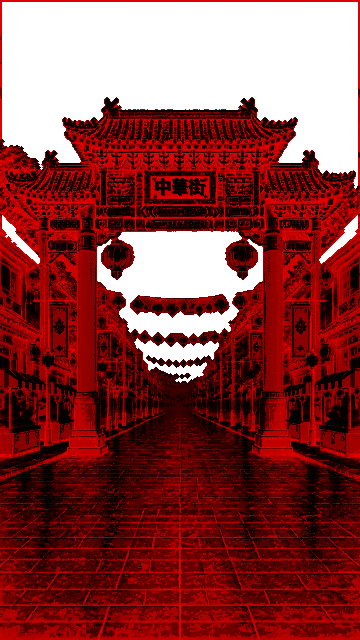
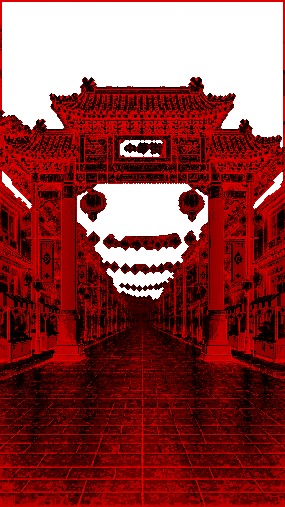
みなとみらい・中華街のカードを「ドットを見つけて縮める＋キャラのふち」で作り直し（v0.4.0）
Canva の元の絵から Pixel Refiner でドットの並び（1マス≒5.4px）を見つけ、285×507マスに縮めた。
描画の共通部分を、名所ごとの絵の大きさに合わせられるようにした。

Changed region(s): [[0.0, 0.0, 1.0, 1.0]]

diff --git a/app/js/card.js b/app/js/card.js
@@ -1,7 +1,8 @@
 // カード描画の共通部分（canva_layers / chukagai_canva の page.html から移したもの）
 // 絵は Canva の見本を写し取った層だけを使う。ここでは背景を描き足さない。
 const THREE = window.THREE;
-export const W = 360, H = 640;
+export const W = 360, H = 640;   // 写真の名所の大きさ。ドット絵の名所は data.json の W・H（scene.userData に入れる）
+const dims = scene => [scene.userData.W || W, scene.userData.H || H];
 export const reduceMotion = () => matchMedia('(prefers-reduced-motion: reduce)').matches;
 
 export const near = t => { t.magFilter = t.minFilter = THREE.NearestFilter; t.generateMipmaps = false; t.wrapS = t.wrapT = THREE.ClampToEdgeWrapping; return t; };
@@ -31,11 +32,13 @@ float bayer(vec2 p){vec2 q=mod(p,4.);float x=q.x,y=q.y;float v=y<1.?(x<1.?0.:x<2
 bool hidden(vec2 px){return bayer(px)>=uReveal;}
 `;
 
-export function makeLayer(scene, z, frag, w = W, h = H) {
+export function makeLayer(scene, z, frag, w, h) {
+  if (w === undefined) [w, h] = dims(scene);
   const m = new THREE.ShaderMaterial({ transparent: true, depthTest: false, vertexShader: VERT, fragmentShader: COMMON + frag,
     uniforms: { tIdx: { value: null }, tPal: { value: null }, uOff: { value: new THREE.Vector2() }, uSize: { value: new THREE.Vector2(w, h) },
       uF: { value: 0 }, uNight: { value: 0 }, uStretch: { value: 1 }, uWet: { value: 0 }, uLamp: { value: 1 }, uReveal: { value: 1 } } });
-  const mesh = new THREE.Mesh(new THREE.PlaneGeometry(w, h), m); mesh.position.set(W / 2, H / 2, z); mesh.renderOrder = z; scene.add(mesh); return mesh;
+  const [SW, SH] = dims(scene);
+  const mesh = new THREE.Mesh(new THREE.PlaneGeometry(w, h), m); mesh.position.set(SW / 2, SH / 2, z); mesh.renderOrder = z; scene.add(mesh); return mesh;
 }
 
 // キャラ（背景と別の層。あとで着せ替えのパーツ層にする）
@@ -49,6 +52,7 @@ export function makeChara(scene, size, shadowColor, shadowOpacity) {
 
 // 雨・雪の粒（コードで動かすもの）。splash は雨のはね返りを出す高さの範囲
 export function makeParticles(scene, splash) {
+  const [W, H] = dims(scene);
   const pc = document.createElement('canvas'); pc.width = W; pc.height = H; const pctx = pc.getContext('2d'), pTex = near(new THREE.CanvasTexture(pc));
   const mesh = new THREE.Mesh(new THREE.PlaneGeometry(W, H), new THREE.MeshBasicMaterial({ map: pTex, transparent: true, depthTest: false })); mesh.position.set(W / 2, H / 2, 5); mesh.renderOrder = 5; scene.add(mesh);
   let seed = 9; const rnd = () => (seed = (seed * 16807) % 2147483647) / 2147483647; const P = Array.from({ length: 320 }, (_, i) => [rnd() * W, rnd() * H, rnd(), i]);
@@ -82,12 +86,17 @@ class Engine {
   }
   register(id, builder) { this.builders[id] = builder; }
   // 組み上がりの途中の状態を元に戻す
+  // 名所ごとの絵の大きさにキャンバスとカメラを合わせる
+  fit(s) {
+    const [w, h] = dims(s.scene); if (this.canvas.width === w && this.canvas.height === h) return;
+    this.renderer.setSize(w, h, false); this.cam.right = w; this.cam.top = h; this.cam.updateProjectionMatrix();
+  }
   reset(s) { for (const m of [...s.layers, s.ch.chara]) m.material.uniforms.uReveal.value = 1; s.drop = 0; s.ch.shadow.material.opacity = s.ch.shadowOpacity; }
   get(id) { return this.built[id] || (this.built[id] = this.builders[id]()); }
   // container の中に動くカードを出す
   async show(container, id, state) {
     const s = await this.get(id);
-    this.cur = s; this.state = drawState(state); s.apply(this.state); this.reset(s); this.lastF = -1; this.par = 0; this.target = null;
+    this.cur = s; this.fit(s); this.state = drawState(state); s.apply(this.state); this.reset(s); this.lastF = -1; this.par = 0; this.target = null;
     container.prepend(this.canvas);
     if (!this.running) { this.running = true; requestAnimationFrame(this.loop); }
     return s;
@@ -106,10 +115,10 @@ class Engine {
   async snapshot(id, state) {
     state = drawState(state); const s = await this.get(id);
     const keep = s === this.cur ? [...s.layers, s.ch.chara].map(m => m.material.uniforms.uReveal.value).concat([s.drop, s.ch.shadow.material.opacity]) : null;
-    s.apply(state); this.reset(s); s.frame(0, 0, true, true, state); this.renderer.render(s.scene, this.cam);
+    this.fit(s); s.apply(state); this.reset(s); s.frame(0, 0, true, true, state); this.renderer.render(s.scene, this.cam);
     if (keep) { [...s.layers, s.ch.chara].forEach((m, i) => { m.material.uniforms.uReveal.value = keep[i]; }); s.drop = keep.at(-2); s.ch.shadow.material.opacity = keep.at(-1); }
     const url = this.canvas.toDataURL('image/png');
-    if (this.cur === s) { s.apply(this.state); this.lastF = -1; }
+    if (this.cur) { this.fit(this.cur); if (this.cur === s) s.apply(this.state); this.lastF = -1; }
     return url;
   }
 }

diff --git a/app/js/scenes/minatomirai.js b/app/js/scenes/minatomirai.js
@@ -1,13 +1,15 @@
 // みなとみらい：canva_layers/page.html の層と動きを移したもの
-import { W, H, loadTextures, palTex, setPal, makeLayer, makeChara, makeParticles } from '../card.js';
+import { loadTextures, palTex, setPal, makeLayer, makeChara, makeParticles } from '../card.js';
 const THREE = window.THREE;
 
 export async function build() {
   const base = 'assets/minatomirai/';
   const D = await (await fetch(base + 'data.json')).json();
   const tex = await loadTextures(base, ['sky_evening', 'sky_night', 'city_evening', 'city_night', 'fg', 'chara']);
-  const HOR = D.HOR, GROUND = 520;
-  const scene = new THREE.Scene();
+  // 絵の大きさは data.json の W・H（285×507）。前の座標（360×640）で決めた数は k 倍する
+  const W = D.W, H = D.H, k = W / 360, n1 = v => (v * k).toFixed(2);
+  const HOR = D.HOR, GROUND = Math.round(520 * k);
+  const scene = new THREE.Scene(); scene.userData = { W, H };
 
   function grade(c, layer, st) {
     let [r, g, b] = c; const l = r * .3 + g * .59 + b * .11, night = st.time === 'night', warm = r > b + 40 && l > 120;
@@ -19,17 +21,17 @@ export async function build() {
   }
 
   const sky = makeLayer(scene, 0, `void main(){ vec2 px=floor(vUv*uSize); px.y=uSize.y-1.-px.y; if(hidden(px)) discard; vec2 s=px-uOff; vec4 t=smp(s); vec3 c=pal(t.r);
-  float ph=hash(s); if(uNight>.5 && s.y<300. && lum(c)>.5 && mod(ph*40.+uF,40.)<5.) c*=.45;
+  float ph=hash(s); if(uNight>.5 && s.y<${n1(300)} && lum(c)>.5 && mod(ph*40.+uF,40.)<5.) c*=.45;
   gl_FragColor=vec4(c,1.); }`);
   const city = makeLayer(scene, 1, `void main(){ vec2 px=floor(vUv*uSize); px.y=uSize.y-1.-px.y; if(hidden(px)) discard; vec2 s=px-uOff;
-  if(s.y>${HOR}.+2.){ float d=(s.y-${HOR}.)/170.; s.x+=floor((.5+2.*d)*sin(s.y*.5+uF*.52)+.5); }
+  if(s.y>${HOR}.+2.){ float d=(s.y-${HOR}.)/${n1(170)}; s.x+=floor((.5+2.*d)*sin(s.y*.5+uF*.52)+.5); }
   vec4 t=smp(s); if(t.a<.5) discard; vec3 c=pal(t.r); float fl=floor(t.g*255.+.5), ph=hash(s);
   if(mod(fl,2.)>.5){ float h=fract(t.b*3.+uF/32.); vec3 pc=h<.2?vec3(1.,.35,.54):h<.4?vec3(1.,.78,.34):h<.6?vec3(.42,.94,.75):h<.8?vec3(.35,.7,1.):vec3(.75,.48,1.); c=mix(c,pc,.7); }
   if(fl>1.5 && fract(ph*7.)<.1 && mod(ph*60.+uF,60.)<3.) c*=.5;
   if(s.y>${HOR}.+2. && lum(c)>.55 && mod(ph*18.+uF,18.)<2.) c=mix(c,vec3(1.,.96,.88),.75);
   gl_FragColor=vec4(c,1.); }`);
   const fg = makeLayer(scene, 2, `void main(){ vec2 px=floor(vUv*uSize); px.y=uSize.y-1.-px.y; if(hidden(px)) discard; vec2 s=px-uOff; vec4 t=smp(s); if(t.a<.5) discard; vec3 c=pal(t.r);
-  float k=0.; ${D.lamps.map(l => `k=max(k,1.-length(s-vec2(${l[0].toFixed(1)},${l[1].toFixed(1)}))/22.);`).join('')}
+  float k=0.; ${D.lamps.map(l => `k=max(k,1.-length(s-vec2(${l[0].toFixed(1)},${l[1].toFixed(1)}))/${n1(22)});`).join('')}
   if(k*uLamp>bayer(px)) c=mix(c,vec3(1.,.84,.56),.22);
   gl_FragColor=vec4(c,1.); }`);
   const ch = makeChara(scene, D.chara, 0x100a26, .45);
@@ -47,9 +49,9 @@ export async function build() {
       for (const m of [sky, city, fg]) m.material.uniforms.uNight.value = n;
     },
     frame(par, f, newF, rm, st) {
-      const off = k => Math.round(-par * k);
+      const off = v => Math.round(-par * v * k);
       sky.material.uniforms.uOff.value.set(off(2), 0); city.material.uniforms.uOff.value.set(off(6), 0); fg.material.uniforms.uOff.value.set(off(14), 0);
-      const cx = W / 2 + off(16), feet = 604;
+      const cx = W / 2 + off(16), feet = Math.round(604 * k);
       ch.chara.position.set(cx, H - (feet - ch.CH / 2) + self.drop, 4); ch.shadow.position.set(cx, H - feet + 1, 3);
       ch.chara.material.uniforms.uOff.value.set(0, rm ? 0 : (Math.floor(f / 9) & 1));
       if (newF) { for (const m of [sky, city, fg]) m.material.uniforms.uF.value = f; fg.material.uniforms.uLamp.value = rm ? 1 : .8 + .2 * Math.sin(f * .9) + .1 * Math.sin(f * 2.3); parts.draw(f, st.weather); }

diff --git a/app/js/scenes/chukagai.js b/app/js/scenes/chukagai.js
@@ -1,12 +1,14 @@
 // 横浜中華街：chukagai_canva/page.html の層と動きを移したもの
-import { W, H, loadTextures, palTex, setPal, makeLayer, makeChara, makeParticles } from '../card.js';
+import { loadTextures, palTex, setPal, makeLayer, makeChara, makeParticles } from '../card.js';
 const THREE = window.THREE;
 
 export async function build() {
   const base = 'assets/chukagai/';
   const D = await (await fetch(base + 'data.json')).json();
   const tex = await loadTextures(base, ['sky_night', 'sky_evening', 'scene_night', 'chara']);
-  const scene = new THREE.Scene();
+  // 絵の大きさは data.json の W・H（285×507）。前の座標（360×640）で決めた数は k 倍する
+  const W = D.W, H = D.H, k = W / 360, n1 = v => (v * k).toFixed(2);
+  const scene = new THREE.Scene(); scene.userData = { W, H };
 
   // 夕暮れは夜の絵の色番号を差し替えて作った差分（空はみなとみらいの夕暮れを流用）
   function grade(c, layer, st) {
@@ -23,12 +25,12 @@ export async function build() {
   float ph=hash(s); if(uNight>.5 && lum(c)>.45 && mod(ph*40.+uF,40.)<5.) c*=.45;
   gl_FragColor=vec4(c,1.); }`);
   const scn = makeLayer(scene, 1, `void main(){ vec2 px=floor(vUv*uSize); px.y=uSize.y-1.-px.y; if(hidden(px)) discard; vec2 s=px-uOff; vec4 t=smp(s); if(t.a<.5) discard; vec3 c=pal(t.r); float fl=floor(t.g*255.+.5), ph=hash(s);
-  if(mod(fl,2.)>.5){ float w=.5+.5*sin(uF*.35+floor(s.x/14.)*1.7+floor(s.y/30.)); c*= .88+.2*w; }
+  if(mod(fl,2.)>.5){ float w=.5+.5*sin(uF*.35+floor(s.x/${n1(14)})*1.7+floor(s.y/${n1(30)})); c*= .88+.2*w; }
   if(fl>1.5 && fract(ph*7.)<.08 && mod(ph*60.+uF,60.)<3.) c*=.55;
-  if(uWet>.5 && s.y>430. && lum(c)>.42 && mod(ph*20.+uF,20.)<2.) c=mix(c,vec3(1.,.9,.8),.55);
+  if(uWet>.5 && s.y>${n1(430)} && lum(c)>.42 && mod(ph*20.+uF,20.)<2.) c=mix(c,vec3(1.,.9,.8),.55);
   gl_FragColor=vec4(c,1.); }`);
   const ch = makeChara(scene, D.chara, 0x0c0620, .5);
-  const parts = makeParticles(scene, [470, 630]);
+  const parts = makeParticles(scene, [Math.round(470 * k), Math.round(630 * k)]);
 
   scn.material.uniforms.tIdx.value = tex.scene_night; ch.chara.material.uniforms.tIdx.value = tex.chara;
   const self = {
@@ -41,9 +43,9 @@ export async function build() {
       setPal(ch.chara, palTex(D.pal.chara, c => grade(c, 'chara', st)));
     },
     frame(par, f, newF, rm, st) {
-      const off = k => Math.round(-par * k);
+      const off = v => Math.round(-par * v * k);
       sky.material.uniforms.uOff.value.set(off(2), 0); scn.material.uniforms.uOff.value.set(off(8), 0);
-      const cx = W / 2 + off(13), feet = 606;
+      const cx = W / 2 + off(13), feet = Math.round(606 * k);
       ch.chara.position.set(cx, H - (feet - ch.CH / 2) + self.drop, 4); ch.shadow.position.set(cx, H - feet + 1, 3);
       ch.chara.material.uniforms.uOff.value.set(0, rm ? 0 : (Math.floor(f / 9) & 1));
       if (newF) { sky.material.uniforms.uF.value = f; scn.material.uniforms.uF.value = rm ? 0 : f; parts.draw(f, st.weather); }

diff --git a/app/sw.js b/app/sw.js
@@ -1,6 +1,6 @@
 // オフライン対応：アプリ本体と絵を端末に保存して、電波がなくても開けるようにする
 // 版を上げるときは VERSION を変える（古い保存は消える）
-const VERSION = 'tabiquest-v0.3.4';
+const VERSION = 'tabiquest-v0.4.0';
 const CORE = [
   './', 'index.html', 'manifest.json', 'css/app.css', 'vendor/three.r128.min.js',
   'js/main.js', 'js/card.js', 'js/places.js', 'js/photo_places.js', 'js/store.js', 'js/geo.js', 'js/conditions.js', 'js/ui.js', 'js/arrival.js', 'js/zukan.js', 'js/debug.js',

diff --git a/app/js/main.js b/app/js/main.js
@@ -14,7 +14,7 @@ import * as minatomirai from './scenes/minatomirai.js';
 import * as chukagai from './scenes/chukagai.js';
 import * as photo from './scenes/photo.js';
 
-export const VERSION = '0.3.4';
+export const VERSION = '0.4.0';
 engine.register('minatomirai', minatomirai.build);
 engine.register('chukagai', chukagai.build);
 for (const p of PLACES) if (p.kind === 'photo') engine.register(p.scene, () => photo.build(p));

diff --git a/app/README.md b/app/README.md
@@ -1,4 +1,4 @@
-# タビクエ Webアプリ（v0.3.0）
+# タビクエ Webアプリ（v0.4.0）
 
 ## PCで動かす
 `M:\Claude\旅アプリ` で次を実行し、ブラウザで http://localhost:5180 を開く。
@@ -30,5 +30,6 @@ main に送ると GitHub Actions が `app/` を GitHub Pages に公開する（h
 - `assets/` Canva から写し取った層の絵とパレット、仮の写真
 
 ## 名所を増やすとき
-- ドット絵：`assets/<id>/` に層のPNGと data.json を置き、`js/scenes/<id>.js` を作り、`places.js` に足して `main.js` で `engine.register` する
+みなとみらい・中華街の層は `tools/relayer.py`（公開しないフォルダ）で作る。Canva の元の絵から Pixel Refiner でドットの並びを見つけて縮め、キャラの外側にふちをつける。
+- ドット絵：`assets/<id>/` に層のPNGと data.json（W・H を入れる。いまは 285×507）を置き、`js/scenes/<id>.js` を作り、`places.js` に足して `main.js` で `engine.register` する
 - 仮の写真：`photo_places.js` に1件足し、写真（360×640）を `assets/photos/` に置く。写真は使ってよいライセンスのものだけにし、作者・ライセンス・元のページを書く
